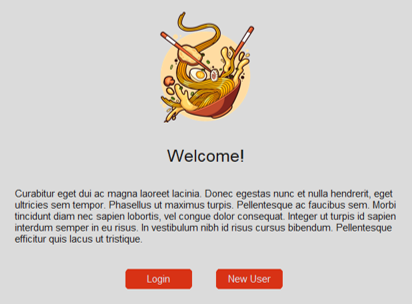
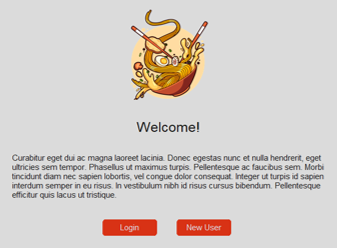
Adjusted the size of the images displayed in the readme

diff --git a/README.md b/README.md
@@ -25,21 +25,16 @@ It will later include the payment options and a delivery option which calculates
 
 ## 3. Screenshots
 
-<p align="center">
-  <img src="./images-gh/main.png.png" />
-</p>
-
-
-![Welcome Screen](./images-gh/main.png)
+![Welcome Screen](./images-gh/main.png)<br>
 *Main screen where the user may choose to login or register to the application.* 
 
-![User Registration](./images-gh/new-user.png)
+![User Registration](./images-gh/new-user.png)<br>
 *User registration screen which takes the user data and saves it to a database*
 
-![Login Screen](./images-gh/login.png)
+![Login Screen](./images-gh/login.png)<br>
 *Login screen which checks if the user is already registered in the application's database*
 
-![Menu Tabs](./images-gh/tabs.png)
+![Menu Tabs](./images-gh/tabs.png)<br>
 *Tabs through which the user can navigate and select the items to be purchased*
 
 ## 4. To-Do List
